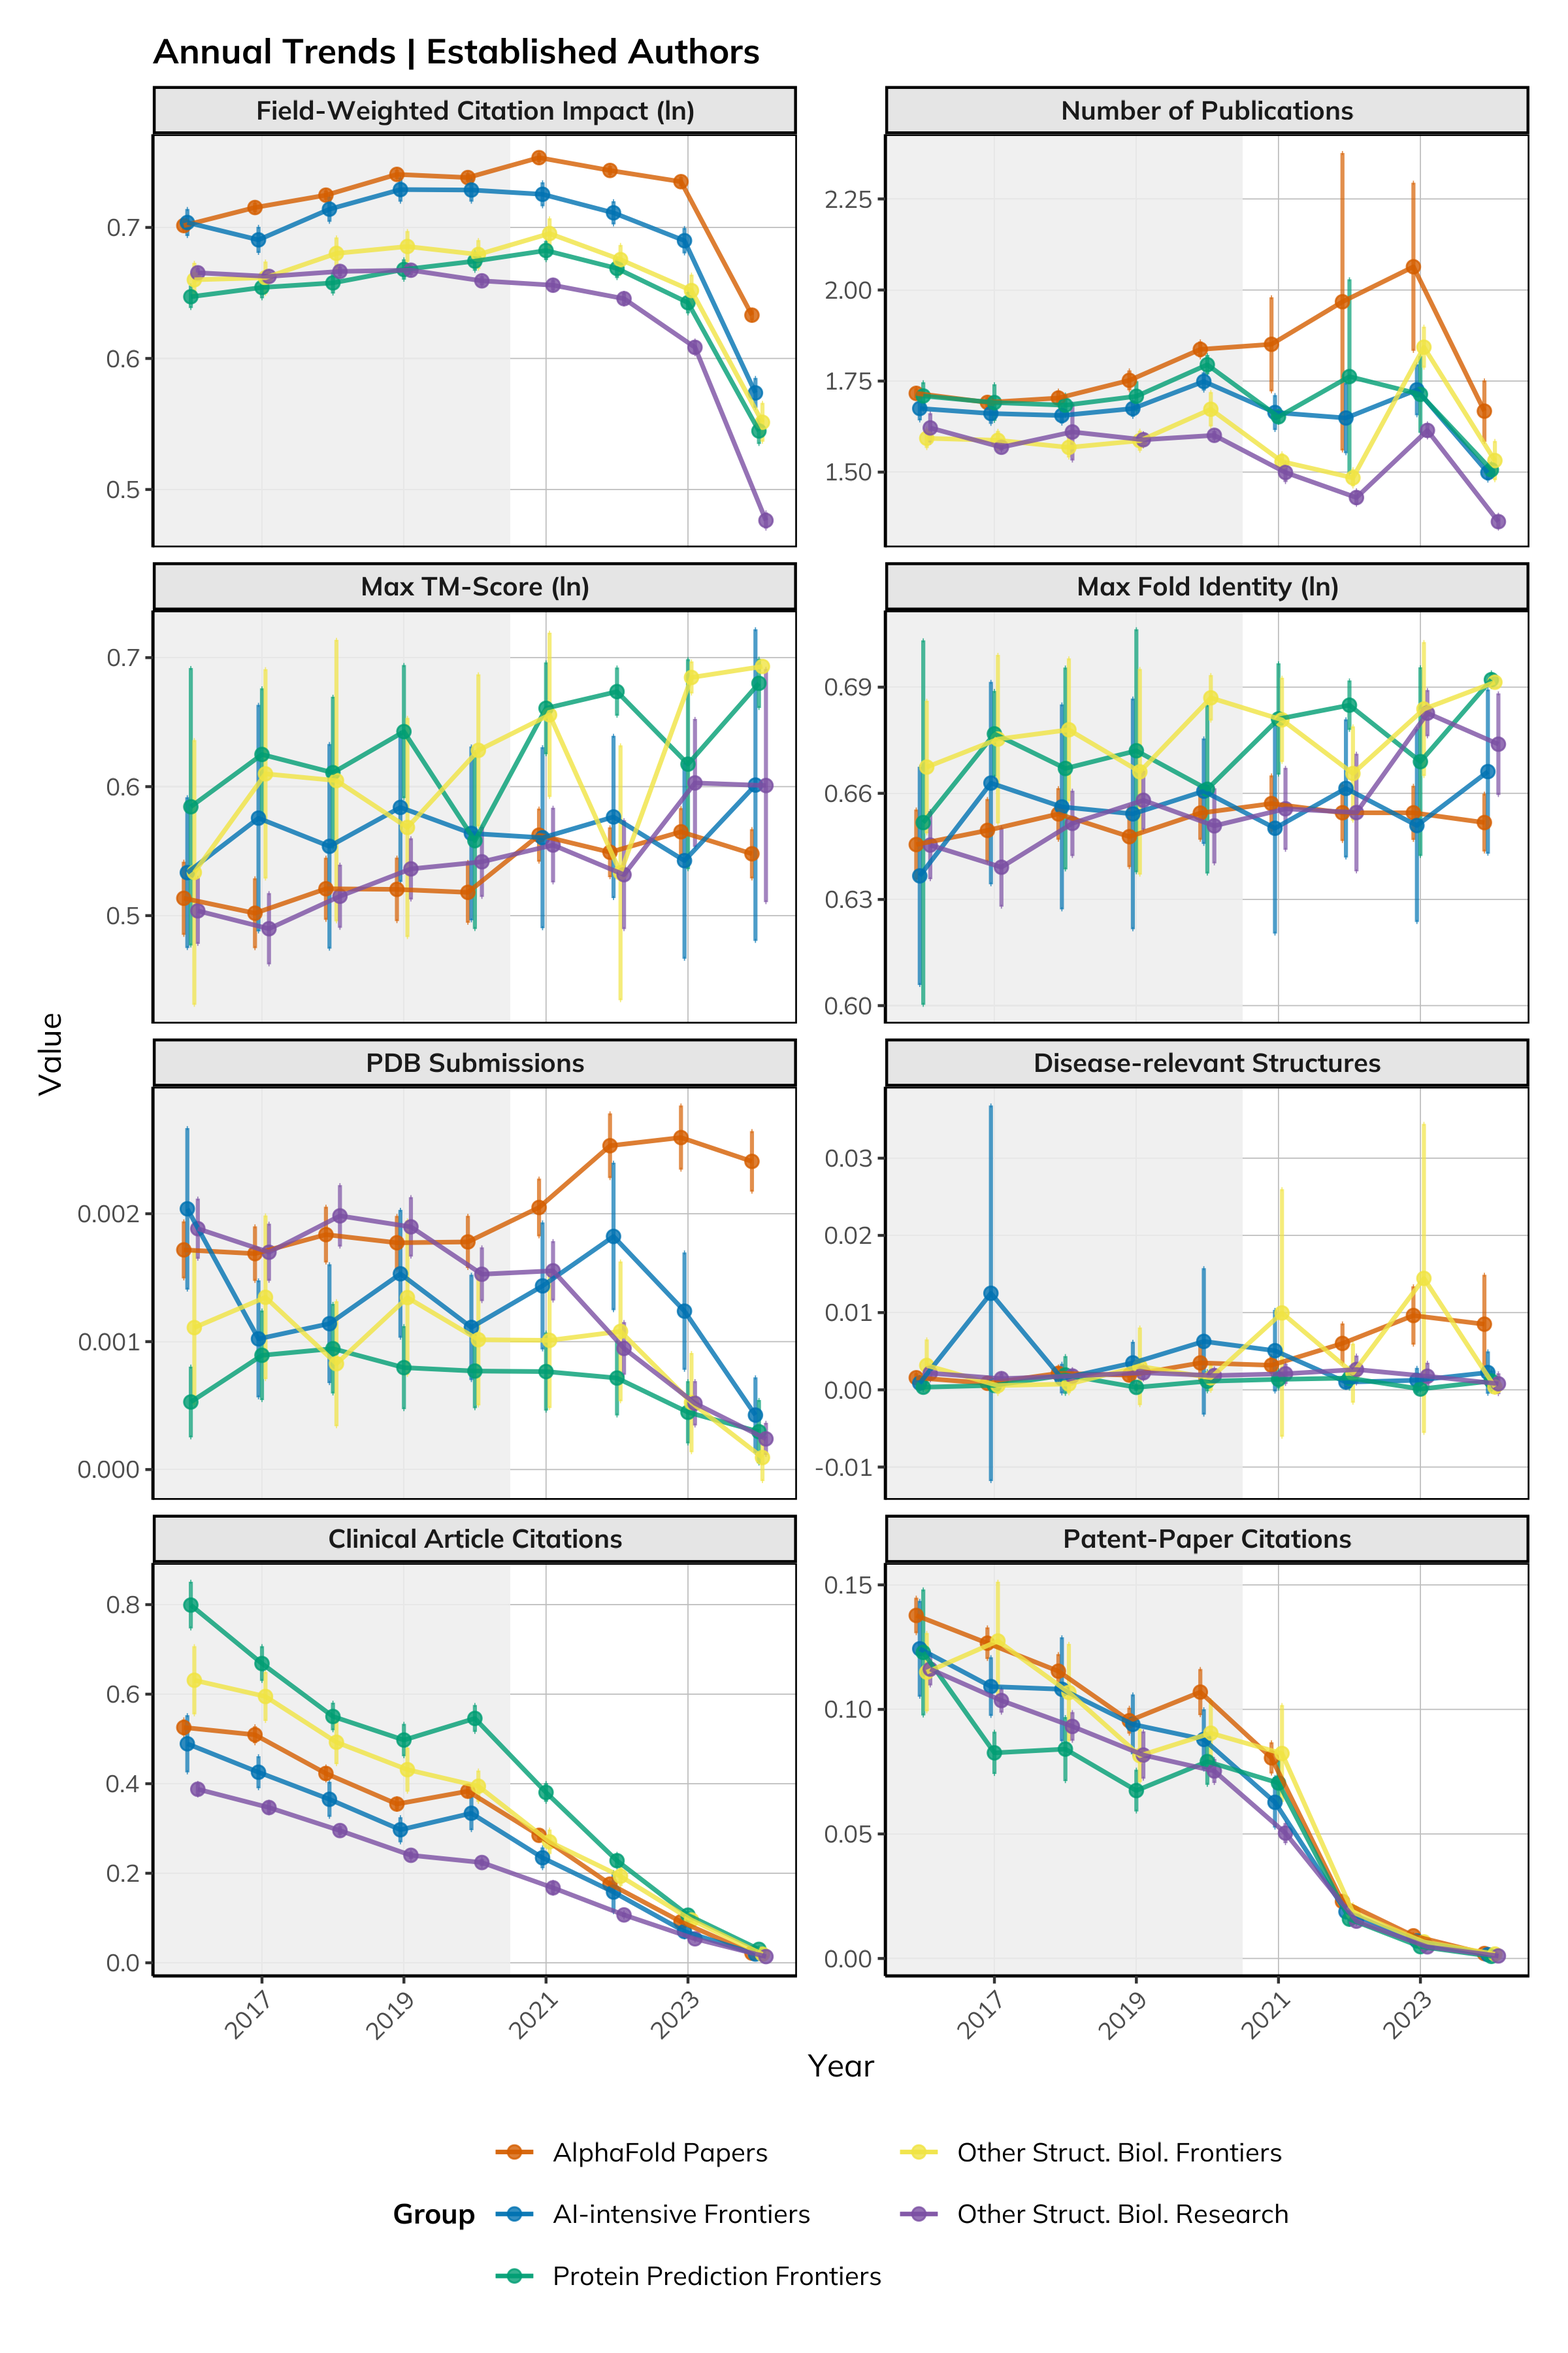
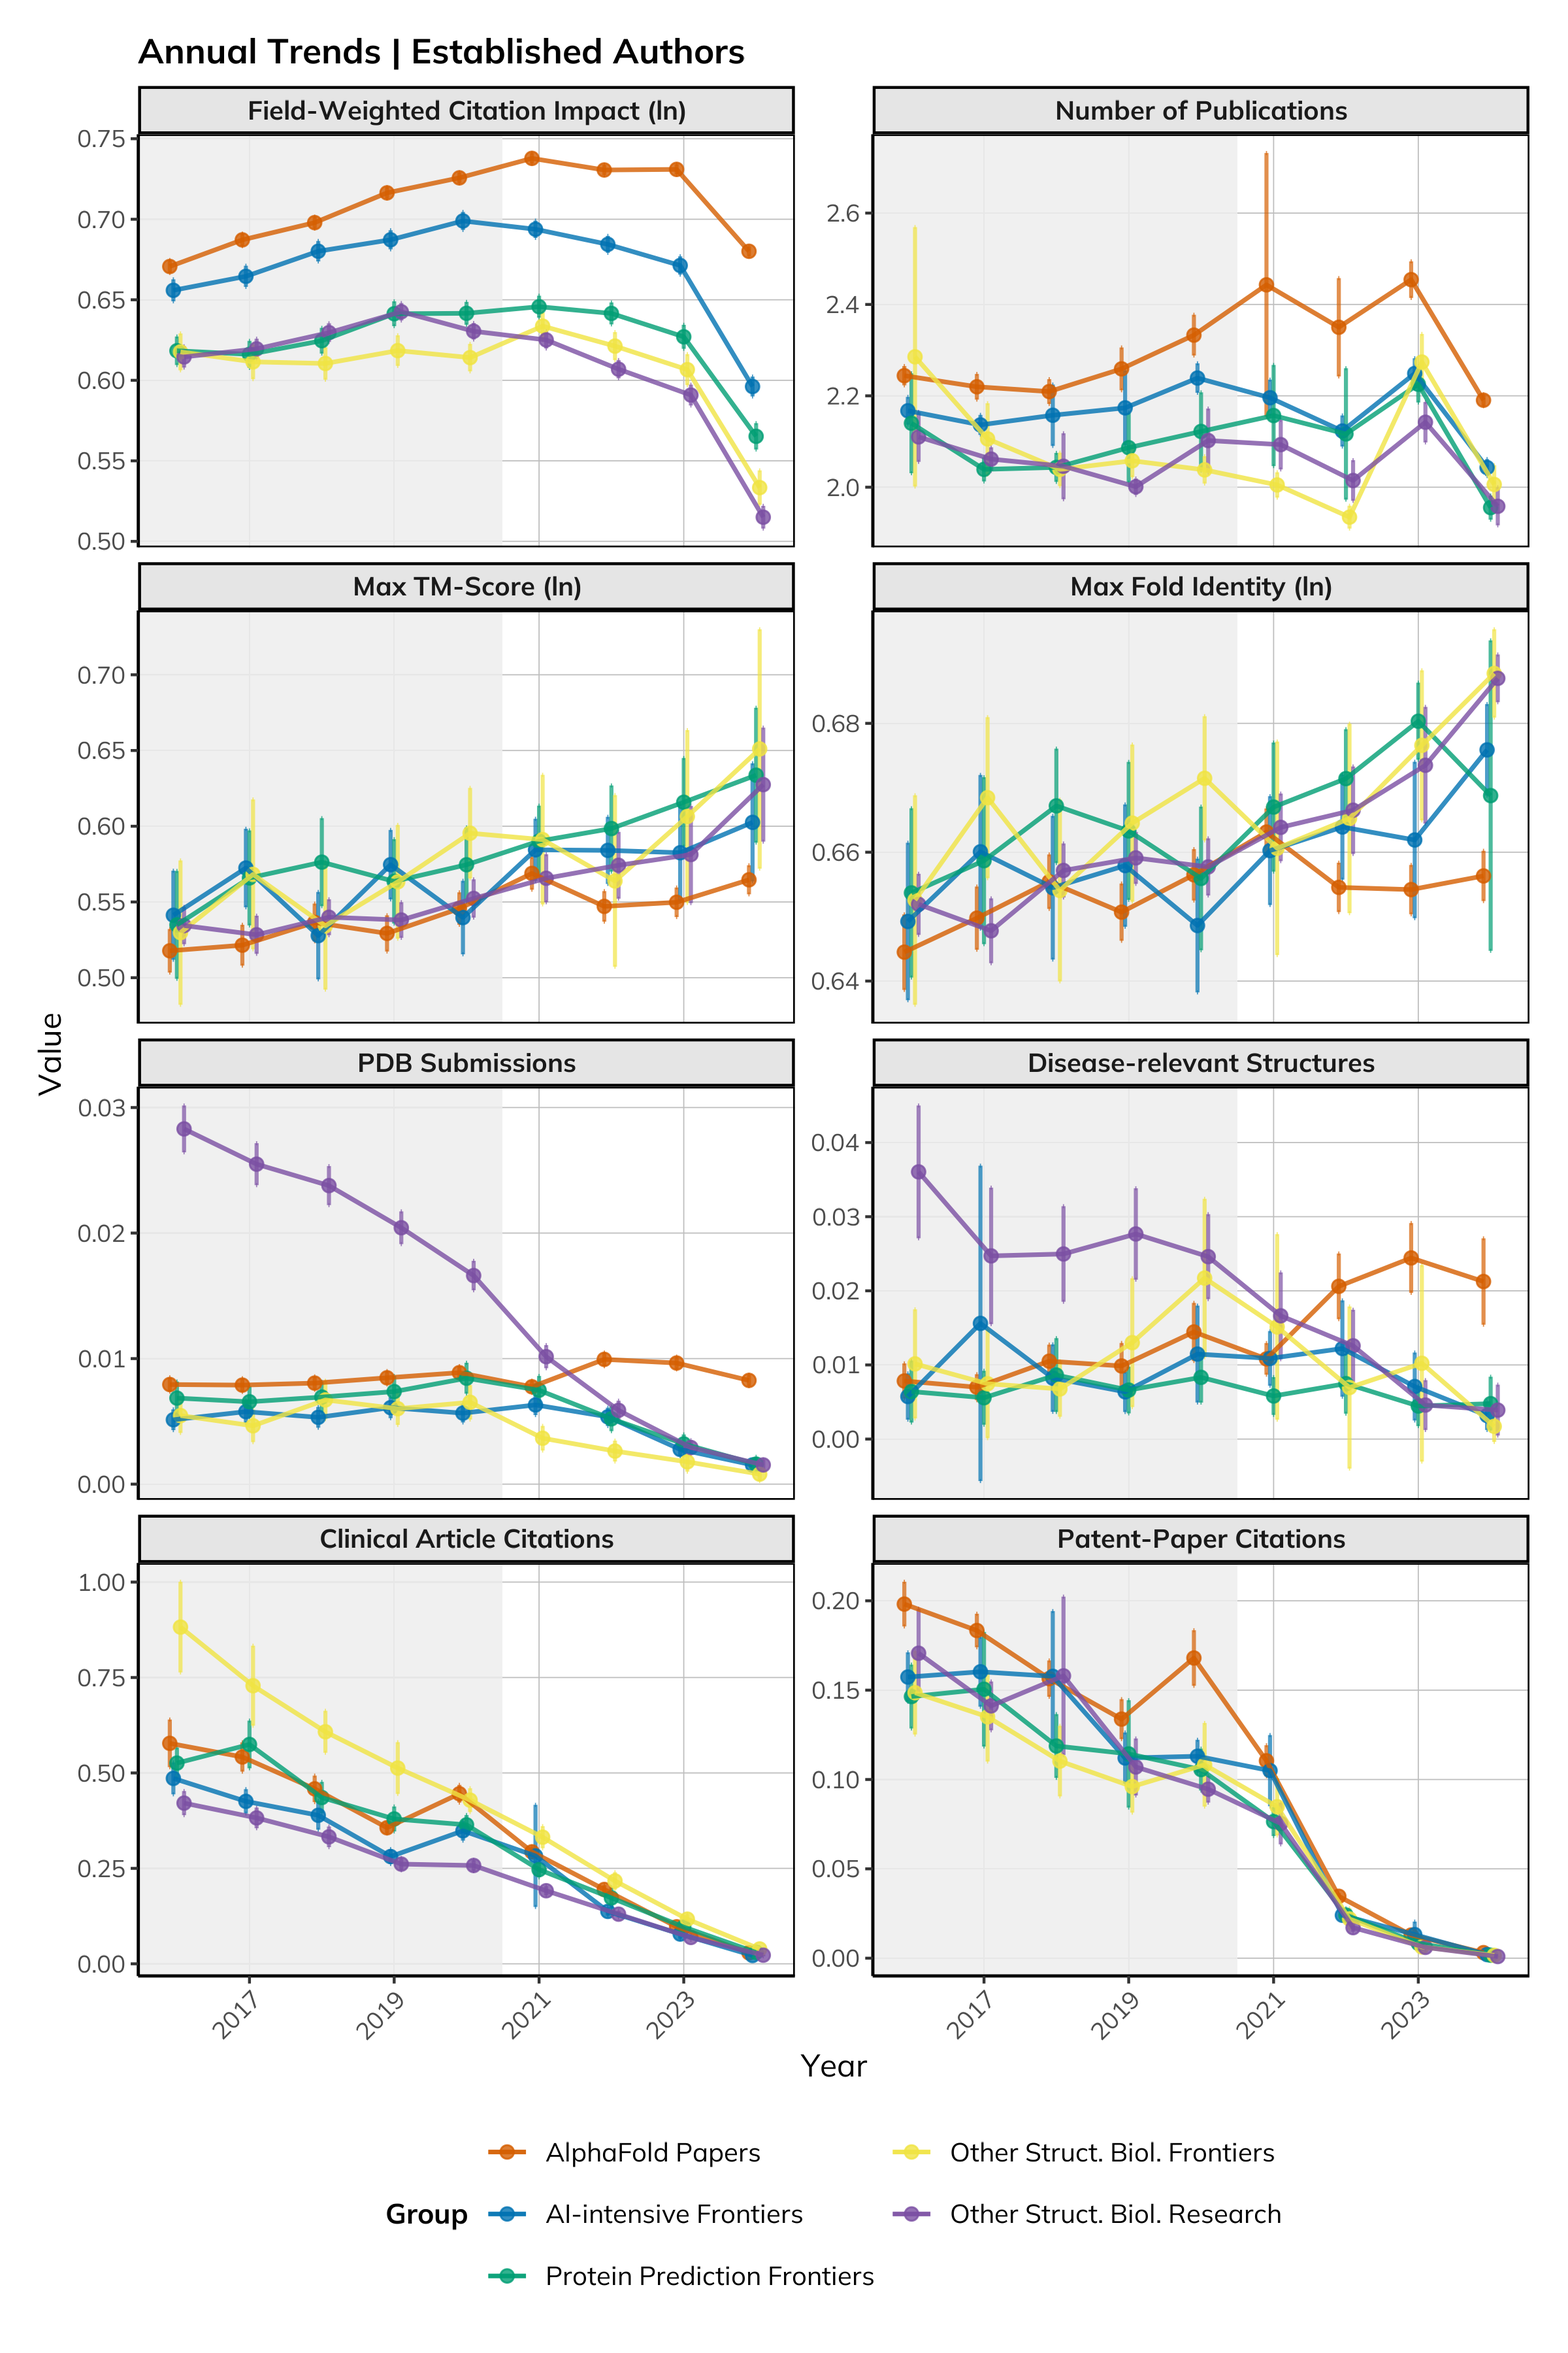
small updates

diff --git a/src/alphafold_impact/pipelines/h_plots/pipeline.py b/src/alphafold_impact/pipelines/h_plots/pipeline.py
@@ -9,7 +9,6 @@ from .nodes import (
     generate_fig_all_counts,
     generate_fig_researcher_counts,
     generate_fig_within_plots,
-    generate_fig3,
     generate_summary_tables_latex,
     plot_regression_results,
     combined_publications_researchers_pp,
@@ -25,64 +24,55 @@ def create_pipeline(**kwargs) -> Pipeline:  # pylint: disable=C0116,W0613
         [
             node(
                 func=generate_fig_counts_and_field_shares, # current Fig 4
-                inputs={"publications": "publications.data.outputs"},
+                inputs={"publications": "publications.data.outputs.restored"},
                 outputs="fig.counts_and_field_shares",
                 name="generate_fig_counts_and_field_shares",
             ),
             node(
                 func=generate_fig_all_counts,
-                inputs={"publications": "publications.data.outputs"},
+                inputs={"publications": "publications.data.outputs.restored"},
                 outputs="fig.all_counts",
                 name="generate_fig_all_counts",
             ),
             node(
                 func=generate_fig_researcher_counts,
-                inputs={"publications": "publications.data.outputs"},
+                inputs={"publications": "publications.data.outputs.restored"},
                 outputs="fig.researcher_counts",
                 name="generate_fig_researcher_counts",
             ),
             node(
                 func=generate_fig_within_plots,
-                inputs={"publications": "publications.data.outputs"},
+                inputs={"publications": "publications.data.outputs.restored"},
                 outputs="fig.within_plots",
                 name="generate_fig_within_plots",
             ),
             node(
                 func=combined_publications_researchers_pp,
                 inputs={
-                    "publications": "publications.data.outputs",
-                    "researchers": "nonecr.publications.quarterly",
+                    "publications": "publications.data.outputs.restored",
+                    "researchers": "nonecr.publications.quarterly.restored",
                 },
                 outputs="fig.descriptive_pp",
                 name="combined_descriptive_pp",
             ),
             node(
                 func=generate_fig_descriptive_protein_charspy,
-                inputs={"publications": "publications.data.outputs"},
+                inputs={"publications": "publications.data.outputs.restored"},
                 outputs="fig.descriptive_protein_charspy",
                 name="generate_fig_descriptive_protein_charspy",
             ),
             node(
                 func=generate_fig_descriptive_translational,
-                inputs={"publications": "publications.data.outputs"},
+                inputs={"publications": "publications.data.outputs.restored"},
                 outputs="fig.descriptive_translational",
                 name="generate_fig_descriptive_translational",
             ),
             node(
-                func=generate_fig3,
-                inputs={
-                    "ecrs": "ecr.publications.quarterly",
-                    "nonecrs": "nonecr.publications.quarterly",
-                },
-                outputs="fig.3",
-                name="generate_fig3",
-            ),
-            node(
                 func=generate_summary_tables_latex,
                 inputs={
-                    "publications": "publications.data.outputs",
+                    "publications": "publications.data.outputs.restored",
                     "early_career_researchers": "ecr.publications.quarterly",
-                    "established_researchers": "nonecr.publications.quarterly",
+                    "established_researchers": "nonecr.publications.quarterly.restored",
                     "foundational_labs": "foundational_lab.outputs.quarterly",
                     "applied_labs": "applied_lab.outputs.quarterly",
                 },
@@ -102,13 +92,13 @@ def create_pipeline(**kwargs) -> Pipeline:  # pylint: disable=C0116,W0613
             ),
             node(
                 func=generate_fig_topics_over_time,
-                inputs={"publications": "publications.data.outputs"},
+                inputs={"publications": "publications.data.outputs.restored"},
                 outputs="fig.topics_over_time",
                 name="generate_fig_topics_over_time",
             ),
             node(
                 func=generate_fig_pp_distributions,
-                inputs={"publications": "publications.data.outputs"},
+                inputs={"publications": "publications.data.outputs.restored"},
                 outputs="fig.pp_distributions",
                 name="generate_fig_pp_distributions",
             ),

diff --git a/src/alphafold_impact/pipelines/h_plots/nodes.py b/src/alphafold_impact/pipelines/h_plots/nodes.py
@@ -233,40 +233,40 @@ def generate_fig_researcher_counts(  # pylint: disable=R0914
     authors_other = mpc6(filtered_other)
 
     # Add missing months for authors_other, including cumsum
-    missing_dates = pd.date_range(start="2024-10-01", end="2025-03-01", freq="ME")
-    missing_counts = np.random.randint(0, 100, size=len(missing_dates))
-    missing_df = pd.DataFrame(
-        {
-            "publication_date": missing_dates,
-            "count": missing_counts,
-            "source": "other",
-            "type": "Adjacent",
-        }
-    )
-    # Compute cumsum for the new rows, continuing from the last cumsum in authors_other
-    if "cumsum" in authors_other.columns and not authors_other.empty:
-        last_cumsum = authors_other.loc[
-            authors_other["type"] == "Adjacent", "cumsum"
-        ].max()
-        if pd.isna(last_cumsum):
-            last_cumsum = 0
-    else:
-        last_cumsum = 0
-    missing_df["cumsum"] = missing_counts.cumsum() + (
-        last_cumsum if last_cumsum is not None else 0
-    )
+    # missing_dates = pd.date_range(start="2024-10-01", end="2025-03-01", freq="ME")
+    # missing_counts = np.random.randint(0, 100, size=len(missing_dates))
+    # missing_df = pd.DataFrame(
+    #     {
+    #         "publication_date": missing_dates,
+    #         "count": missing_counts,
+    #         "source": "other",
+    #         "type": "Adjacent",
+    #     }
+    # )
+    # # Compute cumsum for the new rows, continuing from the last cumsum in authors_other
+    # if "cumsum" in authors_other.columns and not authors_other.empty:
+    #     last_cumsum = authors_other.loc[
+    #         authors_other["type"] == "Adjacent", "cumsum"
+    #     ].max()
+    #     if pd.isna(last_cumsum):
+    #         last_cumsum = 0
+    # else:
+    #     last_cumsum = 0
+    # missing_df["cumsum"] = missing_counts.cumsum() + (
+    #     last_cumsum if last_cumsum is not None else 0
+    # )
 
-    # If authors_other does not have cumsum, fill it for existing rows
-    if "cumsum" not in authors_other.columns:
-        authors_other["cumsum"] = authors_other.groupby("type")["count"].cumsum()
+    # # If authors_other does not have cumsum, fill it for existing rows
+    # if "cumsum" not in authors_other.columns:
+    #     authors_other["cumsum"] = authors_other.groupby("type")["count"].cumsum()
 
-    authors_other = pd.concat(
-        [
-            authors_other,
-            missing_df,
-        ],
-        ignore_index=True,
-    )
+    # authors_other = pd.concat(
+    #     [
+    #         authors_other,
+    #         missing_df,
+    #     ],
+    #     ignore_index=True,
+    # )
 
     # add column and concatenate
     authors_af["source"] = "af"
@@ -278,6 +278,9 @@ def generate_fig_researcher_counts(  # pylint: disable=R0914
     authors = pd.concat(
         [authors_af, authors_ct_ai, authors_ct_pp, authors_ct_sb, authors_other]
     )
+
+    # keep if publication_date[:4] >= 2021
+    authors = authors[authors["publication_date"].dt.year >= 2021]
 
     # sort by publication date
     authors = authors.sort_values("publication_date")
@@ -682,7 +685,7 @@ def generate_summary_tables_latex(
         )
 
         # assign the source to the original data
-        dict_source = grouped["source"].to_dict()
+        dict_source = grouped["source"].to_dict(format="vega")
         data["source"] = data[identifier].map(dict_source)
         return data
 
@@ -832,8 +835,8 @@ def plot_regression_results(
 
     # import vl_convert as vlc
 
-    # png_bytes = vlc.vegalite_to_png(  # pylint: disable=no-member
-    #     chart.to_json(), scale=3
+    # png_bytes = vlc.vega_to_png(  # pylint: disable=no-member
+    #     chart.to_json(format="vega"), scale=3
     # )
     # with open("test.png", "wb") as f:
     #     f.write(png_bytes)

diff --git a/src/alphafold_impact/pipelines/h_plots/utils.py b/src/alphafold_impact/pipelines/h_plots/utils.py
@@ -189,15 +189,15 @@ logger = logging.getLogger(__name__)
 
 def save_chart_as_image(chart: alt.Chart) -> Image.Image:
     """Convert an Altair chart to a Pillow Image object."""
-    png_bytes = vlc.vegalite_to_png(  # pylint: disable=no-member
-        chart.to_json(), scale=3
+    png_bytes = vlc.vega_to_png(  # pylint: disable=no-member
+        chart.to_json(format="vega"), scale=3
     )
     image = Image.open(BytesIO(png_bytes))
     return image
 
 def save_chart_as_image_vega(chart: alt.Chart) -> Image.Image:
     """Convert an Altair chart to a Pillow Image object."""
-    png_bytes = vlc.vegalite_to_png(  # pylint: disable=no-member
+    png_bytes = vlc.vega_to_png(  # pylint: disable=no-member
         chart.to_json(format="vega"), scale=3
     )
     image = Image.open(BytesIO(png_bytes))
